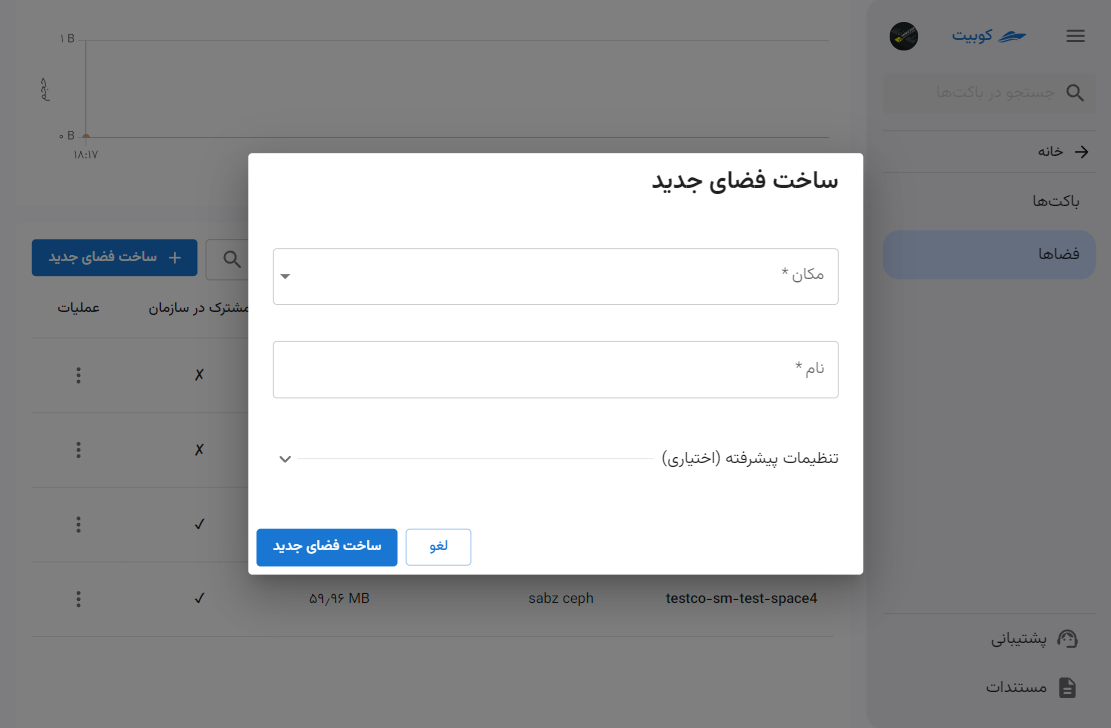
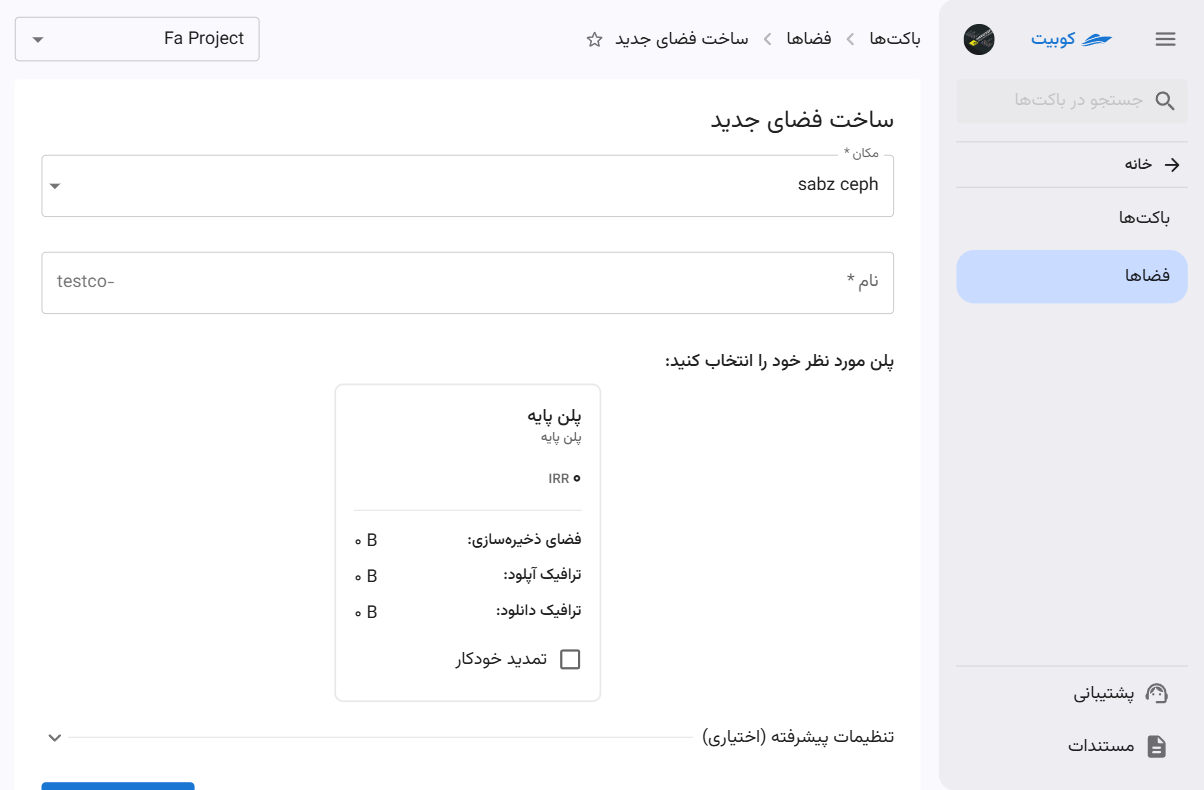
Update docs: - Update root index: fix some service titles - Replace settings with getting-started page - Add select plan in create-space page - Add cors, static website in index concepts

diff --git a/docs/fa/buckets/getting-started.md b/docs/fa/buckets/getting-started.md
@@ -1,12 +1,12 @@
-# مدیریت سرویس باکتها
+# شروع به کار
 
 در بخش باکتهای پنل کوبیت، دسترسی به **باکتها** و **فضاها** فراهم شده است.
-همانطور که در [مفاهیم پایه](../#concepts) ذکر شد، باکتها با فضا و فضاها با پروژهها معنی پیدا میکنند. بنابراین، باکتهای یک سازمان توسط پروژهها تفکیک میشوند. برای شروع کار با باکتها، ابتدا باید یکی از پروژههایی که قبلا در قسمت سازماندهی ساختهاید را به این سرویس متصل کنید، یا یکی از پروژههای متصل به باکت را انتخاب کنید.
+همانطور که در [مفاهیم پایه](../#concepts) ذکر شد، باکتها با فضا و فضاها با پروژهها معنی پیدا میکنند. بنابراین، باکتهای یک سازمان توسط پروژهها تفکیک میشوند. برای شروع کار با باکتها، ابتدا باید یکی از پروژههایی که قبلا در قسمت [سازماندهی](../../organize) ساختهاید را به این سرویس متصل کنید، یا یکی از پروژههای متصل به باکت را انتخاب کنید.
 
 ابتدا از پنل کوبیت، وارد سرویس **باکتها** شوید:
 ![Buckets: bucket](img/bucket.png)
 
-## اتصال پروژه به سرویس باکت
+## اتصال پروژه به سرویس باکت{#bind-project}
 
 - از طریق گزینه **همهی پروژهها**، لیست پروژههای فعلی سازمان را باز کنید.
 - از میان پروژهها، پروژه موردنظر خود را انتخاب کنید.
@@ -22,11 +22,8 @@
 
 در صفحه اول سرویس، لیستی از پروژههای متصل قابل مشاهده است. ابتدا باید پروژه موردنظر را از میان این لیست انتخاب کنید:
 ![Buckets: select project](img/select-project.png)
-در انتها به صفحه اطلاعات باکتها هدایت خواهید شد.
 
-### لیست باکتها
-
-پس از انتخاب پروژه، لیستی از باکتهای پروژه، نمایش داده میشوند:
+پس از انتخاب پروژه، به صفحه لیست باکتهای پروژه، هدایت میشوید:
 ![Buckets: buckets chart](img/buckets_1.png)
 
 برای دریافت چارتهای باکت در بازههای زمانی مختلف، میتوانید روی گزینه **فیلتر** کلیک کنید:
@@ -48,6 +45,10 @@
 :::
 
 ## قطع اتصال پروژه
+
+:::warning[عدم قطع اتصال]
+در صورتی که منابع و دادههایی در باکتهای پروژه وجود داشته باشند، امکان قطع اتصال پروژه از سرویس باکت وجود ندارد.
+:::
 
 - برای قطع اتصال پروژه از سرویس باکت، میتوانید از آیکون قطع اتصال روی کارت پروژه موردنظر اقدام کنید.
 - سپس در صورت اطمینان، روی دکمه **تایید** دیالوگ باز شده کلیک کنید.

diff --git a/docs/fa/buckets/index.md b/docs/fa/buckets/index.md
@@ -1,6 +1,6 @@
 ---
 subDocuments:
-  - settings
+  - getting-started
   - spaces
   - create-space
   - buckets
@@ -35,7 +35,7 @@ subDocuments:
 
 ### برچسب
 
-برچسب در سرویس ذخیرهسازی، یک جفت کلید-مقدار است که به باکت اختصاص داده میشود تا برای دستهبندی، شناسایی و مدیریت دسترسی استفاده شود.
+برچسب در سرویس باکت، یک جفت کلید-مقدار است که به باکت اختصاص داده میشود تا برای دستهبندی، شناسایی، سازماندهی باکتها و مدیریت دسترسی استفاده شود. به طور مثال در تنظیم قوانین چرخه عمر، از برچسبها برای تعیین اعمال قوانین بر روی گروهی از باکتها استفاده میشود.
 
 ### چرخه عمر
 
@@ -44,3 +44,11 @@ subDocuments:
 ### نسخهنگاری
 
 نسخهنگاری امکان نگهداری، بازیابی و بازگردانی نسخههای مختلف یک فایل را در یک باکت فراهم میکند. با فعال شدن این قابلیت، باکت تمامی نسخههای یک فایل، حتی پس از بازنویسی یا حذف آن، را ذخیره میکند. این ویژگی امکان دسترسی به نسخههای قدیمیتر و بازیابی آنها را در صورت نیاز فراهم کرده و از دادهها در برابر حذف یا تغییرات ناخواسته محافظت میکند. همچنین، بازیابی دادهها و پیگیری تغییرات را پشتیبانی میکند.
+
+### تنظیمات CORS
+
+تنظیمات CORS (Cross-Origin Resource Sharing) به وب اپلیکیشنها(برنامههای وب) این امکان را میدهد که بهصورت امن به منابعی مانند تصاویر یا دادهها که در دامنه دیگری ذخیره شدهاند، دسترسی داشته باشند. تنظیم سیاستهای CORS در باکتهای شما جهت کنترل دسترسی سایتهای خارجی به منابع ذخیرهسازی شما کمک میکند و مزایایی همچون کنترل دسترسی ایمن و بهبود عملکرد از طریق دسترسی مستقیم به دادهها را فراهم میکند.
+
+### استاتیک وبسایت
+
+استاتیک وبسایتها به شما این امکان را میدهند که فایلهای HTML، CSS و JavaScript خود را بهصورت مستقیم در باکت ذخیره کرده و از آنها برای میزبانی وبسایتهای استاتیک استفاده کنید. این ویژگی به شما اجازه میدهد تا بدون نیاز به سرورهای پیچیده، وبسایتهای ساده و سریع را میزبانی کنید. با استفاده از تنظیمات CORS و فعالسازی دسترسی عمومی باکت، میتوانید کنترل کاملی بر روی دسترسی به منابع وبسایت خود داشته باشید.

diff --git a/docs/fa/buckets/create-space.md b/docs/fa/buckets/create-space.md
@@ -1,18 +1,39 @@
 # ساخت فضای جدید
 
-در صفحه سرویس باکتها، پس از [انتخاب یک پروژه متصل](../bucket-settings#select-project)، به صفحه **فضاها** رفته و روی **ساخت فضای جدید** کلیک کنید:
+در صفحه سرویس باکتها، پس از [اتصال](../getting-started#bind-project) / [انتخاب](../getting-started#select-project) پروژه، به صفحه **فضاها** رفته و روی **ساخت فضای جدید** کلیک کنید:
 ![Space: new space btn](img/new-space-btn.png)
+
+## گام اول: انتخاب مکان و نام
 
 ابتدا **مکان** را از لیست مکانهای موجود انتخاب کرده و **نام** فضا را وارد کنید:
 ![Space: new space form](img/new-space-form.png)
 ![Space: new space location list](img/new-space-location-list.png)
 
-## تنظیمات پیشرفته (اختیاری)
+## گام دوم: انتخاب پلن
+
+از میان پلنهای موجود، مطابق با نیاز خود یک پلن را انتخاب کنید:
+
+:::info[پلن پیشفرض]
+در صورت عدم انتخاب پلن در این مرحله، **پلن پایه** با فعال بودن گزینه **تمدید خودکار** به صورت پیشفرض انتخاب خواهد شد. همچنین پس از ساخت فضا، میتوانید پلن انتخابشده را تغییر دهید.
+:::
+
+![Space: new space plan list](img/new-space-plan.png)
+
+## گام سوم: تنظیمات پیشرفته
+
+در بخش تنظیمات پیشرفته، تنظیمات بیشتری که برای فضا میتوانید انجام دهید، شامل اشتراکگذاری فضا در سازمان و الزام انتخاب سرویس اکانت، وجود دارد که در ادامه به توضیح هرکدام پرداخته شده است.
+
+:::info[اختیاری بودن تنظیمات پیشرفته]
+تنظیمات اشتراکگذاری در سازمان و ضروری بودن سرویس اکانت برای باکتها اختیاری بوده و پس از ساخت فضا، میتوانید این تنظیمات را تغییر دهید.
+:::
 
 ### مشترک در سازمان
 
 این گزینه فضا را در سطح سازمان و سایر پروژههای سازمان به اشتراک میگذارد و دیگر کاربران سازمان میتوانند برای ساخت باکت، از این فضا استفاده کنند.
-توجه داشته باشید که باکتهای ساخته شده در این فضا تنها در پروژه منتسب به فضا قابل دسترس خواهند بود.
+
+:::tip[عدم دسترسی به فضای مشترک از پروژههای دیگر]
+توجه داشته باشید که پروژههای دیگر به تنظیمات فضای به اشتراکگذاشته شده و باکتهای آن، دسترسی نخواهند داشت و تنها میتوانند برای ساخت باکت از فضای مشترک در سازمان استفاده کنند.
+:::
 
 ### ضروری بودن سرویس اکانت برای باکتها
 

diff --git a/docs/fa/index.md b/docs/fa/index.md
@@ -27,9 +27,9 @@ subDocuments:
 ## مستندات فنی
 
 - [زیرساخت](iaas): رایانش ابری
-- [باکتها](buckets): باکتها (فضای ذخیره سازی ابری)
-- [کوبچی](kubchi): مدیریت ابزارها و برنامه های ابری
+- [باکتها](buckets): فضای ذخیرهسازی ابری
+- [کوبچی](kubchi): مدیریت ابزارها و برنامههای ابری
 - [سرتمن](certman): امنیت ابری با استفاده از گواهی سمت کلاینت
 - [ریسمان](resmon): رصد منابع با ریزدانگی مناسب
 - [زرشک](zereshk): پروکسی هوشمند
-- [رسان](resan): مرکز دریافت و مدیریت ارسال پیامها
+- [رسان](resan): مرکز دریافت و مدیریت ارسال پیامها
